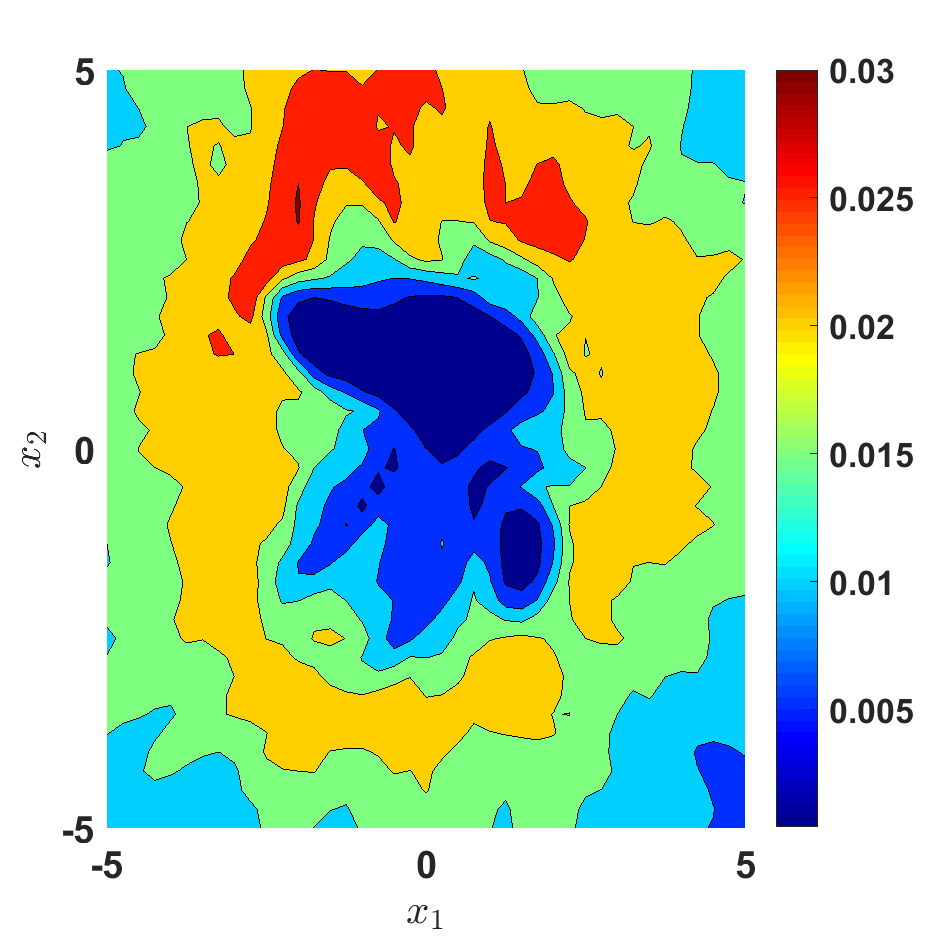
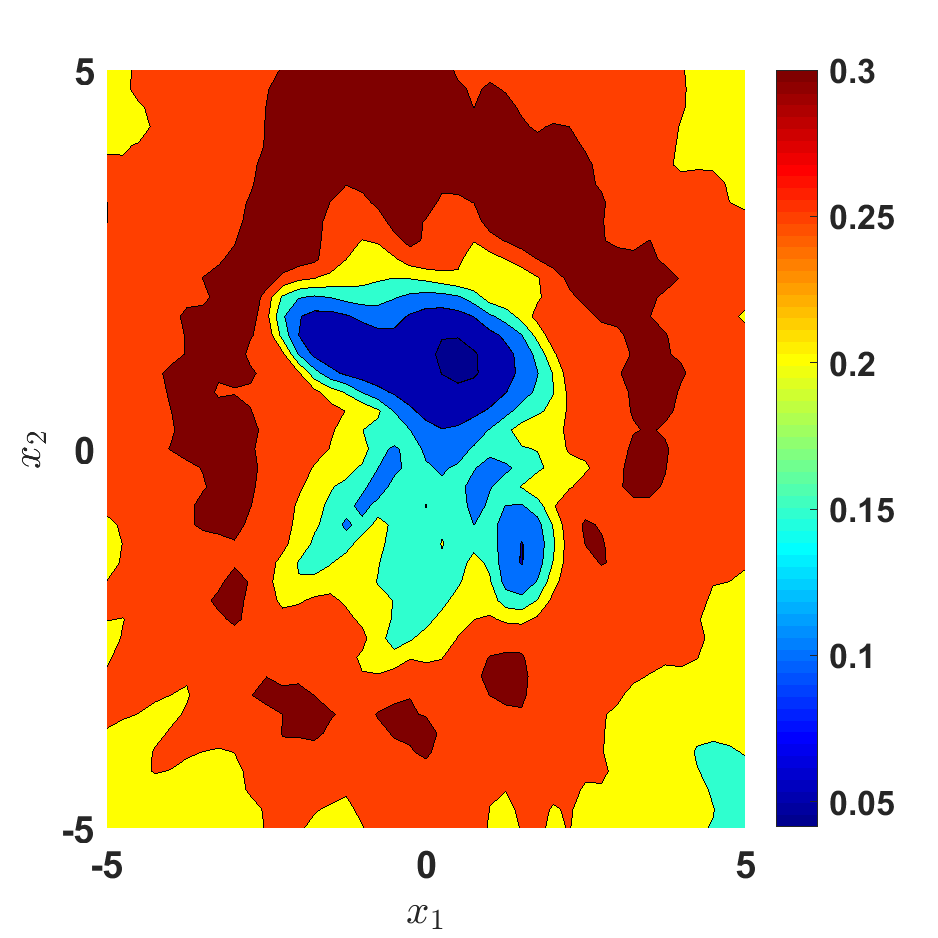
simulation

diff --git a/matlab/semi_supervised_learning/simulations_EP.m b/matlab/semi_supervised_learning/simulations_EP.m
@@ -115,10 +115,23 @@ toc
 end
 
 var_EP = var(y_predict_EP_sim, 0, 3);
+confidence_EP = 2*std(y_predict_EP_sim, 0, 3);
 
 figure('position', [100, 100, 600, 600]);
 hold on;
 contourf(X1_test_EP, X2_test_EP, var_EP);
+colormap(jet)
+colorbar;
+xlim([-5 5]);
+ylim([-5 5]);
+xlabel('$x_1$', 'Interpreter', 'latex');
+ylabel('$x_2$', 'Interpreter', 'latex');
+set(gca, 'FontSize', 18, 'FontWeight', 'bold')
+saveas(gcf, fullfile(fpath, 'simulation2.png'));
+
+figure('position', [100, 100, 600, 600]);
+hold on;
+contourf(X1_test_EP, X2_test_EP, confidence_EP);
 colormap(jet)
 colorbar;
 xlim([-5 5]);
